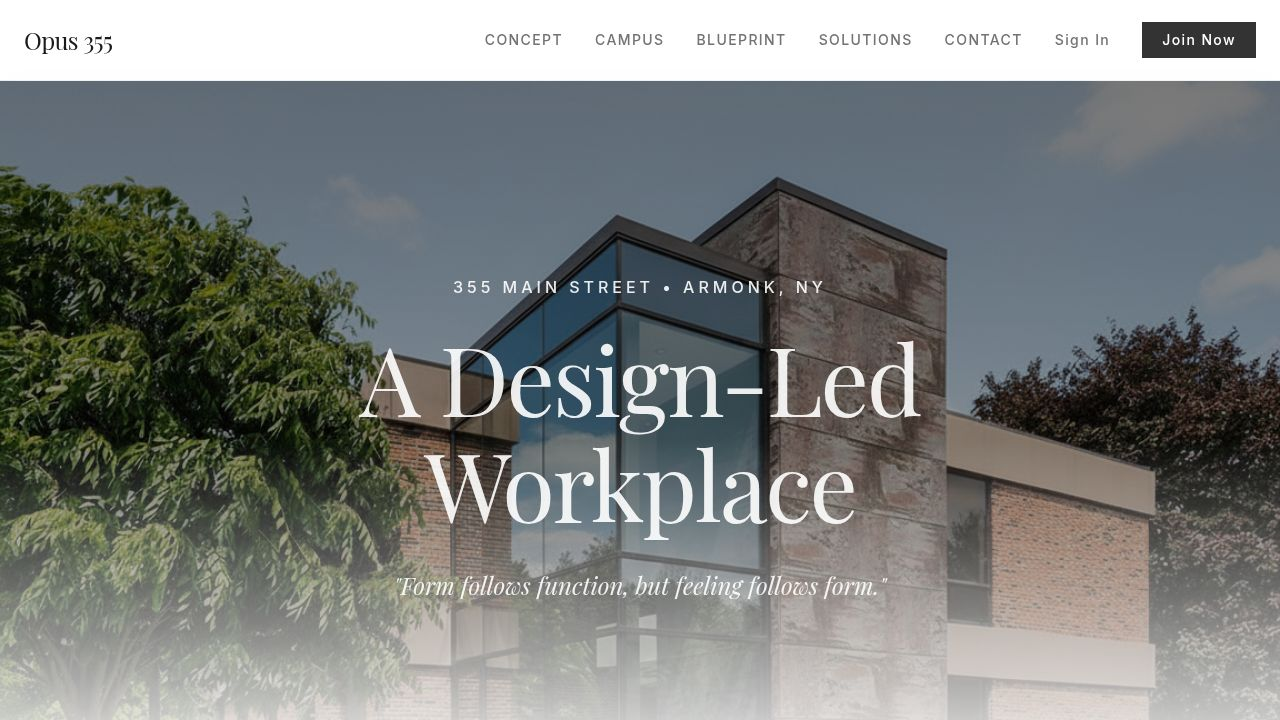
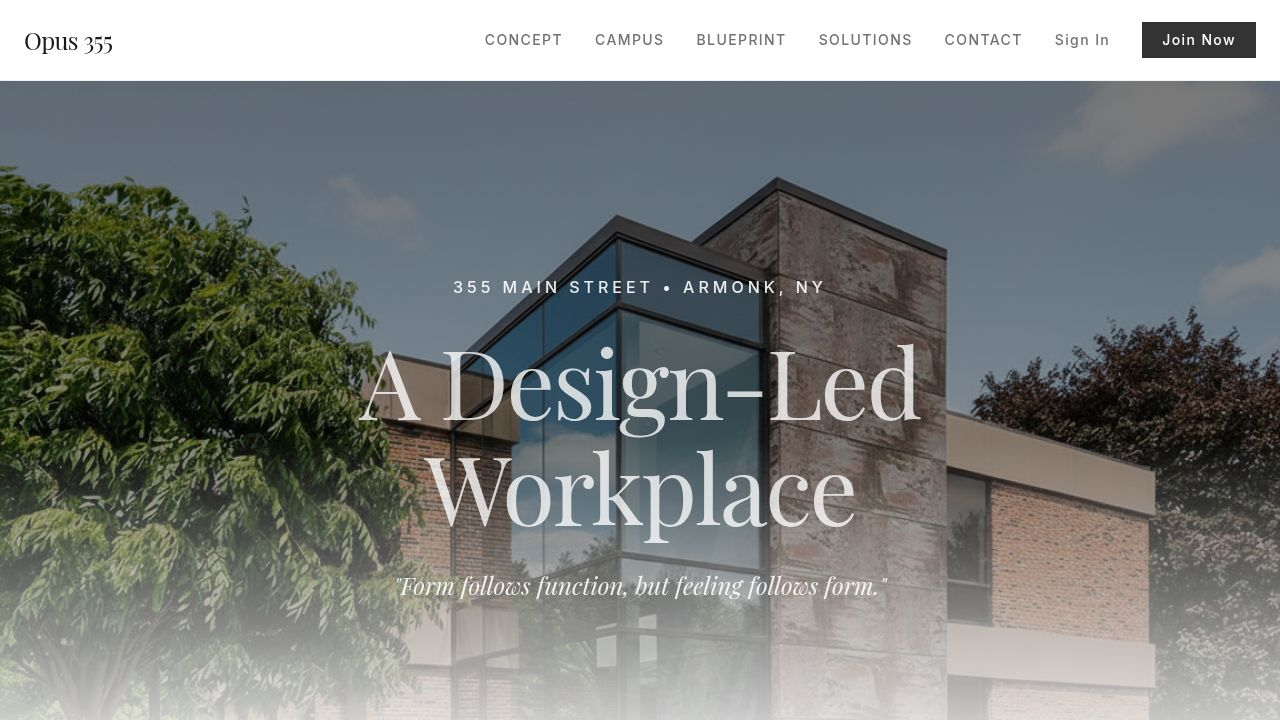
Simplify authentication and payment secrets across environments
Update server/routes.ts to use consistent environment variables for WorkOS and Stripe secrets, simplifying configuration for both development and production environments.

Replit-Commit-Author: Agent
Replit-Commit-Session-Id: c0400ed8-8dcd-4b49-a141-0dcc885150c0
Replit-Commit-Checkpoint-Type: full_checkpoint
Replit-Commit-Event-Id: 5d743fea-f7f6-40a4-a311-00c152658151
Replit-Commit-Screenshot-Url: https://storage.googleapis.com/screenshot-production-us-central1/9f72cabb-9bf3-4c30-9f3f-5f475a08b80e/c0400ed8-8dcd-4b49-a141-0dcc885150c0/2hNzCnR
Replit-Helium-Checkpoint-Created: true

Changed region(s): [[0.2812, 0.4583, 0.7188, 0.6111], [0.3438, 0.6111, 0.6875, 0.7639]]

diff --git a/server/routes.ts b/server/routes.ts
@@ -19,20 +19,14 @@ let clientId: string | undefined;
 let stripeWebhookSecret: string | undefined;
 
 function getEnvironmentCredentials() {
-  const workosApiKey = config.isDevelopment 
-    ? process.env.WORKOS_API_KEY_DEV 
-    : process.env.WORKOS_API_KEY;
-  const workosClientId = config.isDevelopment 
-    ? process.env.WORKOS_CLIENT_ID_DEV 
-    : process.env.WORKOS_CLIENT_ID;
-  const stripeSecretKey = config.isDevelopment 
-    ? process.env.STRIPE_SECRET_KEY_DEV 
-    : process.env.STRIPE_SECRET_KEY;
-  const webhookSecret = config.isDevelopment 
-    ? process.env.STRIPE_WEBHOOK_SECRET_DEV 
-    : process.env.STRIPE_WEBHOOK_SECRET;
-  
-  return { workosApiKey, workosClientId, stripeSecretKey, webhookSecret };
+  // Simplified: use same secrets for dev and production
+  // Secrets are managed in Replit's Secrets panel
+  return {
+    workosApiKey: process.env.WORKOS_API_KEY,
+    workosClientId: process.env.WORKOS_CLIENT_ID,
+    stripeSecretKey: process.env.STRIPE_SECRET_KEY,
+    webhookSecret: process.env.STRIPE_WEBHOOK_SECRET,
+  };
 }
 
 // Membership tier pricing (price IDs would come from Stripe dashboard in production)